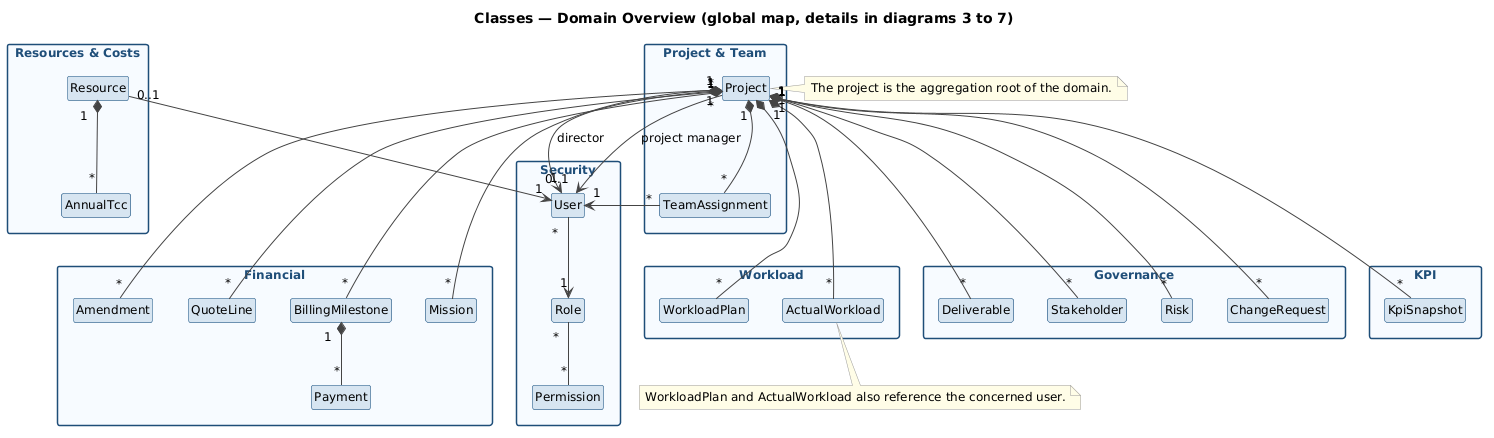
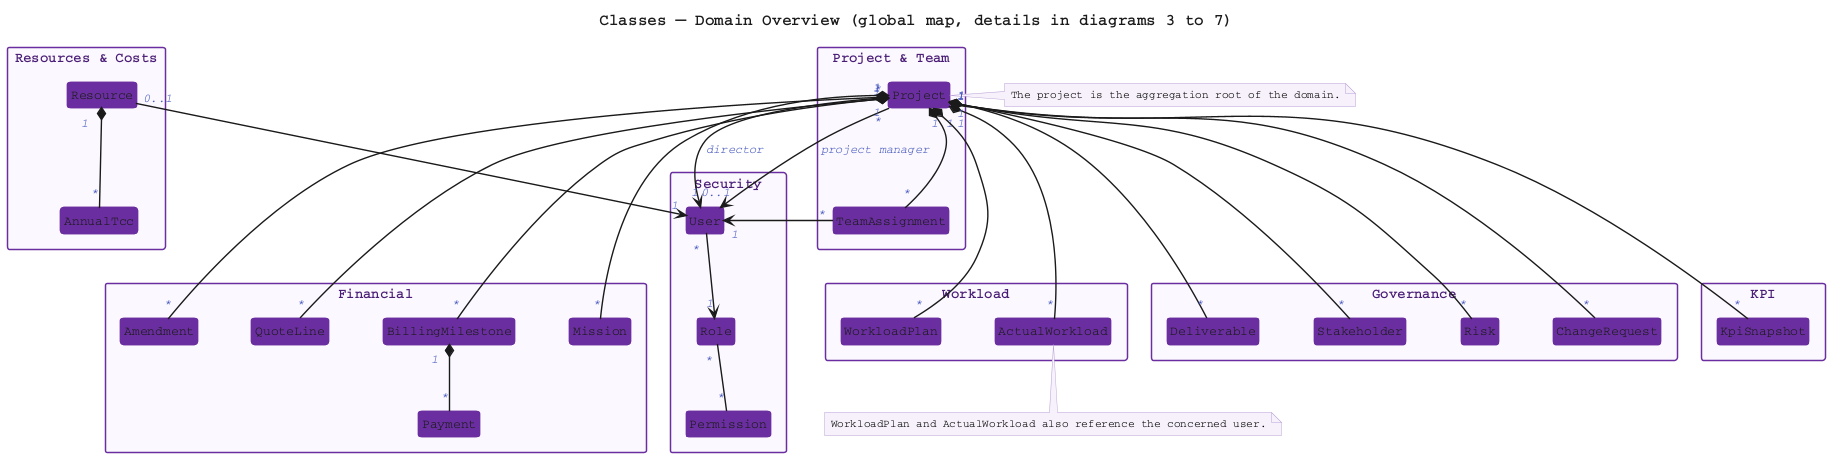
Restyle the class diagrams on the reference model and add the agile diagram
Adopts the visual language of the diagram supplied as the model: solid purple
headers with the class name in white, monospace throughout, purple borders,
black orthogonal connectors, multiplicities at both ends, and association labels
in italic blue. Applied to all six existing class diagrams so the set reads as
one family.

Switches visibility to textual markers. PlantUML defaults to small square icons
for private and public members; the reference uses plain - and +, and
classAttributeIconSize 0 restores that.

Adds 16-class-agile.puml for the module built in sprint 5, and activates its
figure in chapter 5.

The agile diagram distinguishes two relationships that are easy to conflate.
Project composes Sprint and BacklogItem with filled diamonds, since neither
exists without its project. Sprint AGGREGATES BacklogItem with a hollow diamond,
because deleting a sprint returns its items to the product backlog rather than
destroying them. That is the behaviour the service actually implements, so the
notation states something true rather than decorative.

Fixes a regression this restyle introduced in 14-class-global. The theme
replacement swept a wider block than intended and removed "hide members" plus
the package styling, so the overview rendered every box with an empty second
compartment. Both restored, and orthogonal routing dropped for that diagram
alone, where a wide layout turned it into a bundle of parallel horizontal runs.
[…]

diff --git a/report/Rapport PFE TEKUP LATEX/chap_05.tex b/report/Rapport PFE TEKUP LATEX/chap_05.tex
@@ -228,13 +228,12 @@ A sprint belongs to a project and carries a goal, a start and end date, and a li
 (\texttt{PLANNED}, \texttt{ACTIVE}, \texttt{CLOSED}). A backlog item belongs to a project and
 \emph{optionally} to a sprint, and carries a title, a priority, an estimate and a status.
 
-% TODO: render docs/uml/sprint/class_agile.puml then uncomment.
-% \begin{figure}[H]
-%   \centering
-%   \includegraphics[width=0.8\columnwidth]{img/class_agile.png}
-%   \caption{Class diagram --- agile planning}
-%   \label{fig:class-agile}
-% \end{figure}
+\begin{figure}[H]
+  \centering
+  \includegraphics[width=0.8\columnwidth]{img/class_agile.png}
+  \caption{Class diagram --- agile planning}
+  \label{fig:class-agile}
+\end{figure}
 
 \subsubsection{Design decisions}
 \textbf{The link to a sprint is optional, and that is the model.} An item whose sprint is undefined
